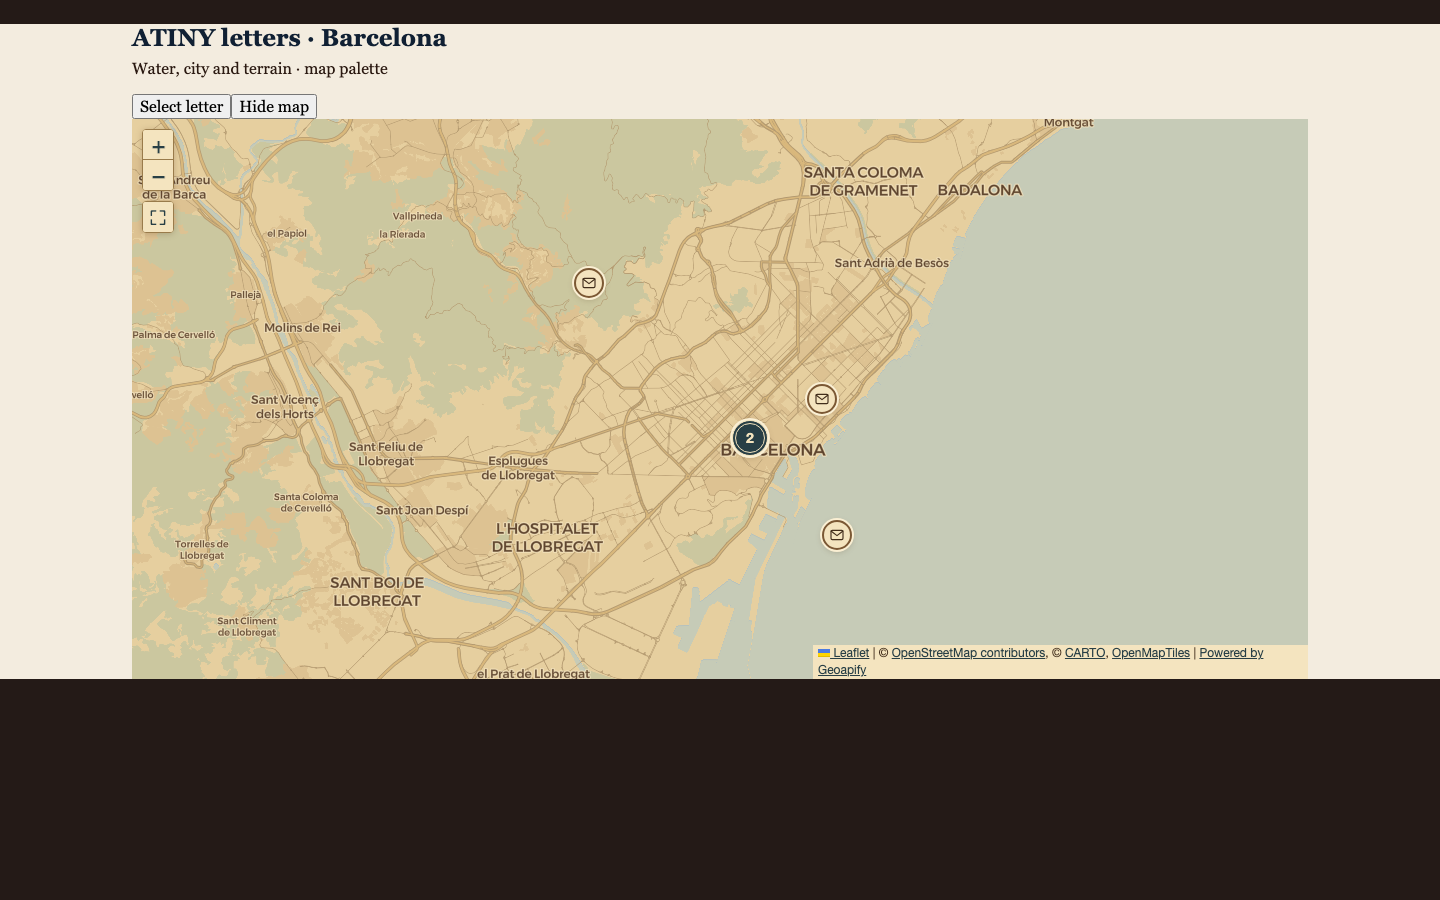
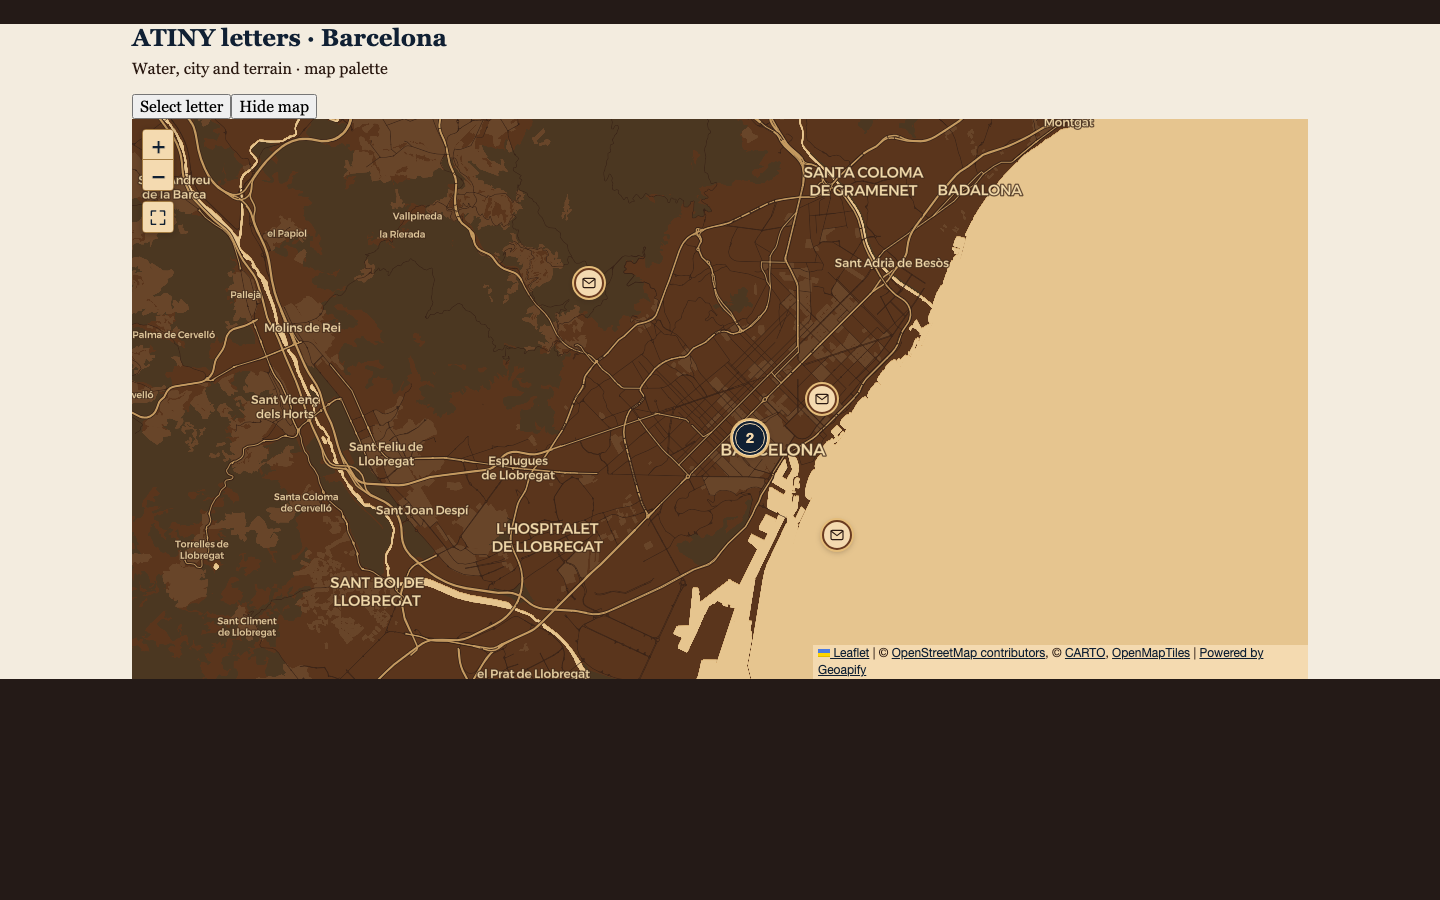
style(map): align nautical palette with the original visual reference

diff --git a/src/config/map-style.config.ts b/src/config/map-style.config.ts
@@ -1,26 +1,28 @@
 /**
- * Vintage parchment palette for the CARTO Voyager vector background. Edit the HEX values and reload the map.
+ * Nautical reference palette: dark sepia land, parchment seas and gold details.
+ * Color palette for the CARTO Voyager vector background. Edit the HEX values and reload the map.
  * Letter and control colors live in src/components/map/map-theme.css.
  * Fallback PNG tiles retain the original CARTO colors.
  */
 export const mapStyle = {
   colors: {
-    land: '#e6cf9f',
-    water: '#b6c2be',
-    waterShore: '#c6cbb7',
-    vegetation: '#cbc79f',
-    residential: '#ddc292',
-    buildings: '#cdb185',
-    buildingOutline: '#a98b5c',
-    roads: '#f4e4bf',
-    majorRoads: '#d9b87c',
-    roadOutline: '#b49a70',
-    paths: '#a38c66',
-    railways: '#8e8b6e',
-    boundaries: '#9a805b',
-    labels: '#5e442d',
-    waterLabels: '#4d5b50',
-    labelHalo: '#f4e4bf',
+    land: '#5a351c',
+    water: '#d8af73',
+    waterShore: '#e6c58f',
+    vegetation: '#4b3721',
+    residential: '#684529',
+    buildings: '#795333',
+    buildingOutline: '#422916',
+    roads: '#ac814c',
+    majorRoads: '#c49a60',
+    roadOutline: '#382216',
+    paths: '#8b6a42',
+    railways: '#ae8b59',
+    boundaries: '#a07841',
+    labels: '#f3dbab',
+    waterLabels: '#5b3b20',
+    labelHalo: '#402818',
+    waterLabelHalo: '#e4c28a',
   },
 }
 

diff --git a/src/components/map/map-theme.css b/src/components/map/map-theme.css
@@ -1,19 +1,19 @@
 /* Map interface colors. Edit cartographic colors in src/config/map-style.config.ts. */
 :root {
-  --map-paper: #f4e4bf;
-  --map-paper-hover: #e8d0a2;
-  --map-ink: #412d1b;
-  --map-muted: #6a5134;
-  --map-brown: #7b5834;
-  --map-navy: #283f46;
-  --map-navy-hover: #38575c;
-  --map-on-navy: #f4e4bf;
-  --map-border: #997b4b;
-  --map-focus: #283f46;
-  --map-halo: #faefd3;
-  --map-shadow: #51351b40;
-  --map-disabled: #746448;
-  --map-canvas: #b6c2be;
+  --map-paper: #f4dab0;
+  --map-paper-hover: #e8c78f;
+  --map-ink: #2b1a12;
+  --map-muted: #684728;
+  --map-brown: #6a3b20;
+  --map-navy: #102033;
+  --map-navy-hover: #1c354c;
+  --map-on-navy: #f4dab0;
+  --map-border: #a37b42;
+  --map-focus: #102033;
+  --map-halo: #e5bd7a;
+  --map-shadow: #241a1759;
+  --map-disabled: #746042;
+  --map-canvas: #d8af73;
   --map-grain-opacity: .12;
   --map-aged-edge: #70502533;
 }

diff --git a/tests/visual/fixtures/map-palette.tsx b/tests/visual/fixtures/map-palette.tsx
@@ -27,7 +27,8 @@ function Fixture() {
       <button onClick={() => setVisible(current => !current)}>{visible ? 'Hide map' : 'Show map'}</button>
       {visible && <section className={fullscreen ? 'map map--fullscreen' : 'map'}>
         <ReactLeafletPublicMap features={features} apiKey={process.env.NEXT_PUBLIC_CARTO_BASEMAP_KEY ?? 'fixture'}
-          initialView={{ latitude: 41.395, longitude: 2.16, zoom: 12 }} selectedPublicId={selected} focusSelection={false}
+          initialView={new URLSearchParams(location.search).get('view') === 'world'
+            ? { latitude: 20, longitude: 0, zoom: 2 } : { latitude: 41.395, longitude: 2.16, zoom: 12 }} selectedPublicId={selected} focusSelection={false}
           isFullscreen={fullscreen} onToggleFullscreen={() => setFullscreen(current => !current)} onSelect={() => {}} />
       </section>}
     </main>

diff --git a/tests/unit/components/map/vector-map-style.test.ts b/tests/unit/components/map/vector-map-style.test.ts
@@ -15,6 +15,14 @@ describe('editable vector cartography', () => {
     expect(layer('road_minor_fill')?.minzoom).toBe(15)
   })
 
+  it('keeps water labels on a light halo and land labels on a dark halo', () => {
+    const style = createVectorMapStyle({ ...mapStyle.colors, labelHalo: '#111111', waterLabelHalo: '#eeeeee' })
+    const paint = (id: string) => style.layers.find(layer => layer.id === id)?.paint
+    expect(paint('watername_ocean')).toMatchObject({ 'text-halo-color': '#eeeeee' })
+    expect(paint('waterway_label')).toMatchObject({ 'text-halo-color': '#eeeeee' })
+    expect(paint('place_country_1')).toMatchObject({ 'text-halo-color': '#111111' })
+  })
+
   it('creates independent styles so edits cannot leak between map instances', () => {
     const first = createVectorMapStyle()
     first.layers.length = 0

diff --git a/src/components/map/vector-map-style.ts b/src/components/map/vector-map-style.ts
@@ -25,8 +25,9 @@ export function createVectorMapStyle(colors: MapColors = mapStyle.colors): Style
       layer.paint = { ...layer.paint, 'line-color': color }
     }
     if (layer.type === 'symbol') {
-      layer.paint = { ...layer.paint, 'text-color': source === 'water_name' || source === 'waterway' ? colors.waterLabels : colors.labels,
-        'text-halo-color': colors.labelHalo }
+      const waterLabel = source === 'water_name' || source === 'waterway'
+      layer.paint = { ...layer.paint, 'text-color': waterLabel ? colors.waterLabels : colors.labels,
+        'text-halo-color': waterLabel ? colors.waterLabelHalo : colors.labelHalo }
       if (layer.paint['icon-color']) layer.paint['icon-color'] = colors.labels
     }
   }

diff --git a/docs/map-palette.md b/docs/map-palette.md
@@ -9,8 +9,8 @@ Edit **`src/config/map-style.config.ts`** and reload the map. The same configura
 ```ts
 export const mapStyle = {
   colors: {
-    land: '#e6cf9f',
-    water: '#b6c2be',
+    land: '#5a351c',
+    water: '#d8af73',
     // Other feature colors are listed in the configuration file.
   },
 }
@@ -18,36 +18,38 @@ export const mapStyle = {
 
 | Setting | Default | Use |
 | --- | --- | --- |
-| `land` | `#e6cf9f` | Aged parchment land and country boundary halo |
-| `water` | `#b6c2be` | Seas, lakes and rivers |
-| `waterShore` | `#c6cbb7` | Water edge/shadow |
-| `vegetation` | `#cbc79f` | Parks, woodland and natural land cover |
-| `residential` | `#ddc292` | Residential areas |
-| `buildings` | `#cdb185` | Buildings and roofs |
-| `buildingOutline` | `#a98b5c` | Building outlines |
-| `roads` | `#f4e4bf` | Minor roads and airport surfaces |
-| `majorRoads` | `#d9b87c` | Primary/secondary roads, trunks and motorways |
-| `roadOutline` | `#b49a70` | Road casings, including bridges and tunnels |
-| `paths` | `#a38c66` | Paths |
-| `railways` | `#8e8b6e` | Rail lines; dashes use `roads` |
-| `boundaries` | `#9a805b` | Country and administrative boundaries |
-| `labels` | `#5e442d` | Place, road, building-number and point-of-interest text |
-| `waterLabels` | `#4d5b50` | Water names |
-| `labelHalo` | `#f4e4bf` | Text halo |
+| `land` | `#5a351c` | Dark sepia continents and country boundary halo |
+| `water` | `#d8af73` | Light parchment seas, lakes and rivers |
+| `waterShore` | `#e6c58f` | Water edge/shadow |
+| `vegetation` | `#4b3721` | Parks, woodland and natural land cover |
+| `residential` | `#684529` | Residential areas |
+| `buildings` | `#795333` | Buildings and roofs |
+| `buildingOutline` | `#422916` | Building outlines |
+| `roads` | `#ac814c` | Minor roads and airport surfaces |
+| `majorRoads` | `#c49a60` | Primary/secondary roads, trunks and motorways |
+| `roadOutline` | `#382216` | Road casings, including bridges and tunnels |
+| `paths` | `#8b6a42` | Paths |
+| `railways` | `#ae8b59` | Rail lines; dashes use `roads` |
+| `boundaries` | `#a07841` | Country and administrative boundaries |
+| `labels` | `#f3dbab` | Place, road, building-number and point-of-interest text |
+| `waterLabels` | `#5b3b20` | Water names |
+| `labelHalo` | `#402818` | Dark halo for light labels on land |
+| `waterLabelHalo` | `#e4c28a` | Light halo for dark water names |
 
 The configuration changes paint colors; CARTO's existing placement, geometry, widths, opacity and zoom-dependent visibility remain intact. Changes to those advanced properties belong in the style builder or the pinned style, rather than the color palette.
 
 ## Letters and controls
 
-Edit **`src/components/map/map-theme.css`** for all `--map-*` interface tokens. Warm parchment markers have a sepia border and a pale paper halo. Faded blue-ink clusters have a double border and a numeric count. Selected letters have a double border plus an outer ring; keyboard focus adds a dashed outline. Selection is also exposed as `aria-pressed`.
+Edit **`src/components/map/map-theme.css`** for all `--map-*` interface tokens. Warm parchment markers have a sepia border and a pale paper halo. Deep navy clusters have a double border and a numeric count. Selected letters have a double border plus an outer ring; keyboard focus adds a dashed outline. Selection is also exposed as `aria-pressed`.
 
 | Content | Foreground / background | Contrast |
 | --- | --- | --- |
-| Marker, popup and attribution text | `#412d1b` / `#f4e4bf` | 10.33:1 |
-| Cluster and selected letter | `#f4e4bf` / `#283f46` | 8.84:1 |
-| Zoom/fullscreen controls | `#283f46` / `#f4e4bf` | 8.84:1 |
-| Secondary interface text | `#6a5134` / `#f4e4bf` | 5.88:1 |
-| Cartographic label / halo | `#5e442d` / `#f4e4bf` | 7.13:1 |
+| Marker, popup and attribution text | `#2b1a12` / `#f4dab0` | 12.31:1 |
+| Cluster and selected letter | `#f4dab0` / `#102033` | 12.14:1 |
+| Zoom/fullscreen controls | `#102033` / `#f4dab0` | 12.14:1 |
+| Secondary interface text | `#684728` / `#f4dab0` | 6.15:1 |
+| Cartographic label / halo | `#f3dbab` / `#402818` | 10.12:1 |
+| Water label / halo | `#5b3b20` / `#e4c28a` | 5.92:1 |
 
 These ratios apply to the defaults. Recheck contrast after editing colors. A subtle, static SVG grain and edge shading age only the vector background. Set `--map-grain-opacity` to `0` to disable the effect; `--map-aged-edge` adjusts its edge tint. Markers, controls and popups sit in separate panes, so their contrast remains unchanged by the texture.
 
@@ -72,7 +74,7 @@ The palette tests wait for a zoom to finish before unmounting. Leaflet 1.9.4 has
 ### Verification record (2026-10-17)
 
 - `pnpm build`, `pnpm typecheck`, `pnpm lint`: passed.
-- `pnpm test`: 51 BDD scenarios and 892 unit tests passed. A subsequent full unit run hit a timing failure in `language-switcher.test.tsx` (`Saving language…` versus `Language saved.`); its isolated rerun passed. This unrelated test was not changed.
+- `pnpm test`: 51 BDD scenarios and 893 unit tests passed after the reference palette refinement. An earlier full unit run hit a timing failure in `language-switcher.test.tsx` (`Saving language…` versus `Language saved.`); its isolated rerun passed. This unrelated test was not changed.
 - Integration: 163 passed. Contract: 61 passed. The existing `20261014143000_geographic_locations.sql` migration had to be applied to the local test database first; this PR adds no schema changes.
 - Palette browser suite: 6 passed, including actual context loss and three viewport widths.
 - Existing map browser suite: 28 passed, 1 intermittent failure in `applies partial cities automatically without moving the filters on /map at 390px` (city URL parameter timing). A previous run hit the desktop variant and a selected-popup timing failure; their focused reruns passed. The failing mobile case then passed three consecutive focused reruns; the unchanged baseline also passed its focused repetitions. The cause of the intermittent failure is not attributed to this PR. Keep this limitation visible when reviewing the experimental PR.
@@ -80,4 +82,4 @@ The palette tests wait for a zoom to finish before unmounting. Leaflet 1.9.4 has
 
 ### Vintage parchment refinement
 
-The follow-up palette uses ochre parchment land, muted sage water, olive vegetation and sepia labels. A static, low-opacity paper grain is confined to the vector background; letters and controls remain crisp. The existing configuration files still control all colors, and the CSS texture can be disabled independently. Updated comparison, popup and fullscreen captures show this refinement.
+The supplied nautical reference guides the palette: dark sepia continents against a light parchment sea, with antique gold details, cream paper and deep navy controls. Residential areas, buildings, roads and vegetation use related brown/olive/gold tones. These HEX values are interpreted from the reference, not exact sampled colors. Land labels use cream ink with a dark halo; water names use dark ink with a separate light halo. A static, low-opacity paper grain is confined to the vector background; letters and controls remain crisp. The existing configuration files still control all colors, and the CSS texture can be disabled independently. Updated comparison, popup and fullscreen captures show this refinement.

diff --git a/docs/previews/issue-131/README.md b/docs/previews/issue-131/README.md
@@ -1,6 +1,6 @@
 # Map palette comparison
 
-The same production map component is rendered in a deterministic letter harness. CARTO tiles are real; letter data is a local fixture. All captures use Barcelona at latitude 41.395, longitude 2.16 and Leaflet zoom 12. Browser: Chromium. Height: 900 px. The baseline uses commit `628556c`; the updated view uses this branch.
+The same production map component is rendered in a deterministic letter harness. CARTO tiles are real; letter data is a local fixture. The before/after, popup and fullscreen captures use Barcelona at latitude 41.395, longitude 2.16 and Leaflet zoom 12. Browser: Chromium. Height: 900 px. The baseline uses commit `628556c`; the updated view uses this branch.
 
 | Viewport | Before: raster and original palette | After: vector and vintage parchment palette |
 | --- | --- | --- |
@@ -19,6 +19,12 @@ The same production map component is rendered in a deterministic letter harness.
 | --- | --- |
 | ![Desktop fullscreen map](fullscreen-1440.png) | ![Mobile fullscreen map](fullscreen-390.png) |
 
-The screenshots show paper markers over urban land, the sea and natural terrain, faded blue-ink clusters and a selected letter with a double border and outer ring. Browser assertions separately check dashed keyboard focus and contrast of at least 4.5:1 for normal, selected and hovered letters, clusters, controls, popup and attribution text. The 320 px viewport is tested without adding another near-identical capture.
+The screenshots show paper markers over dark sepia urban land, the parchment sea and brown/olive natural terrain, navy clusters and a selected letter with a double border and outer ring. Browser assertions separately check dashed keyboard focus and contrast of at least 4.5:1 for normal, selected and hovered letters, clusters, controls, popup and attribution text. The 320 px viewport is tested without adding another near-identical capture.
 
 See [palette configuration and verification](../../map-palette.md) for editing instructions, default colors, fallback behavior and reproduction commands.
+
+## Nautical reference at world scale
+
+The supplied reference uses dark continents on a light parchment sea. The world view (1024 px viewport, center 20°N / 0°, zoom 2) below shows the same relationship in the interactive vector map; streets and cities add the derived brown and antique-gold tones at closer zooms.
+
+![Nautical reference palette at world scale](reference-world.png)
